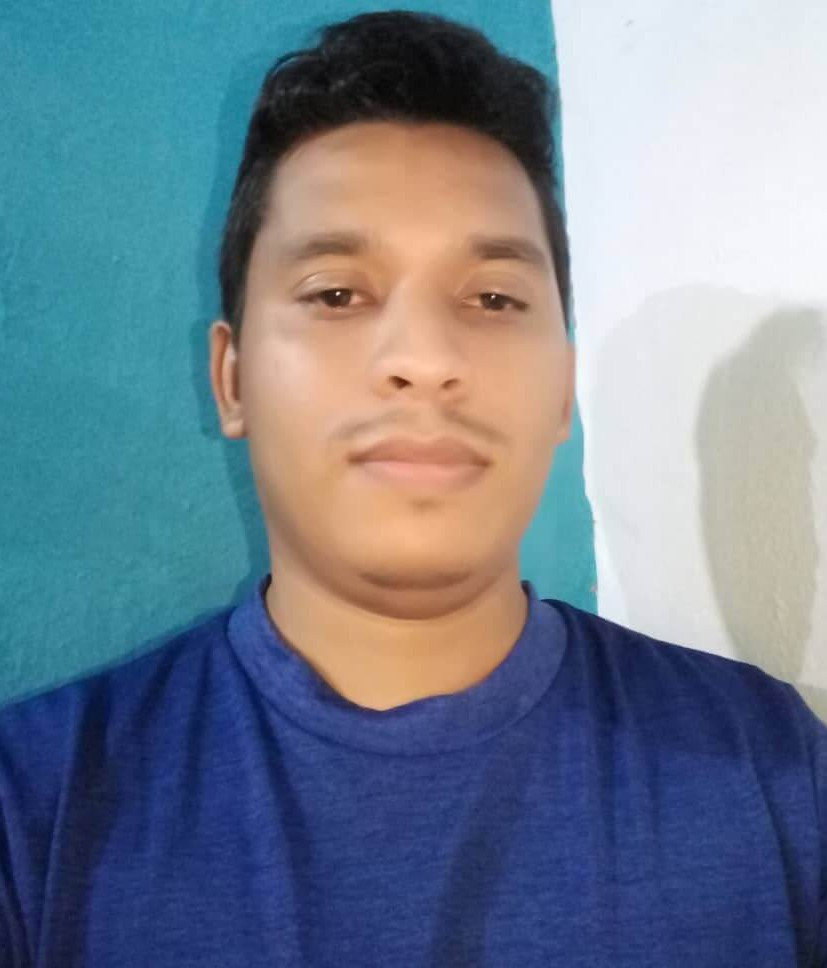
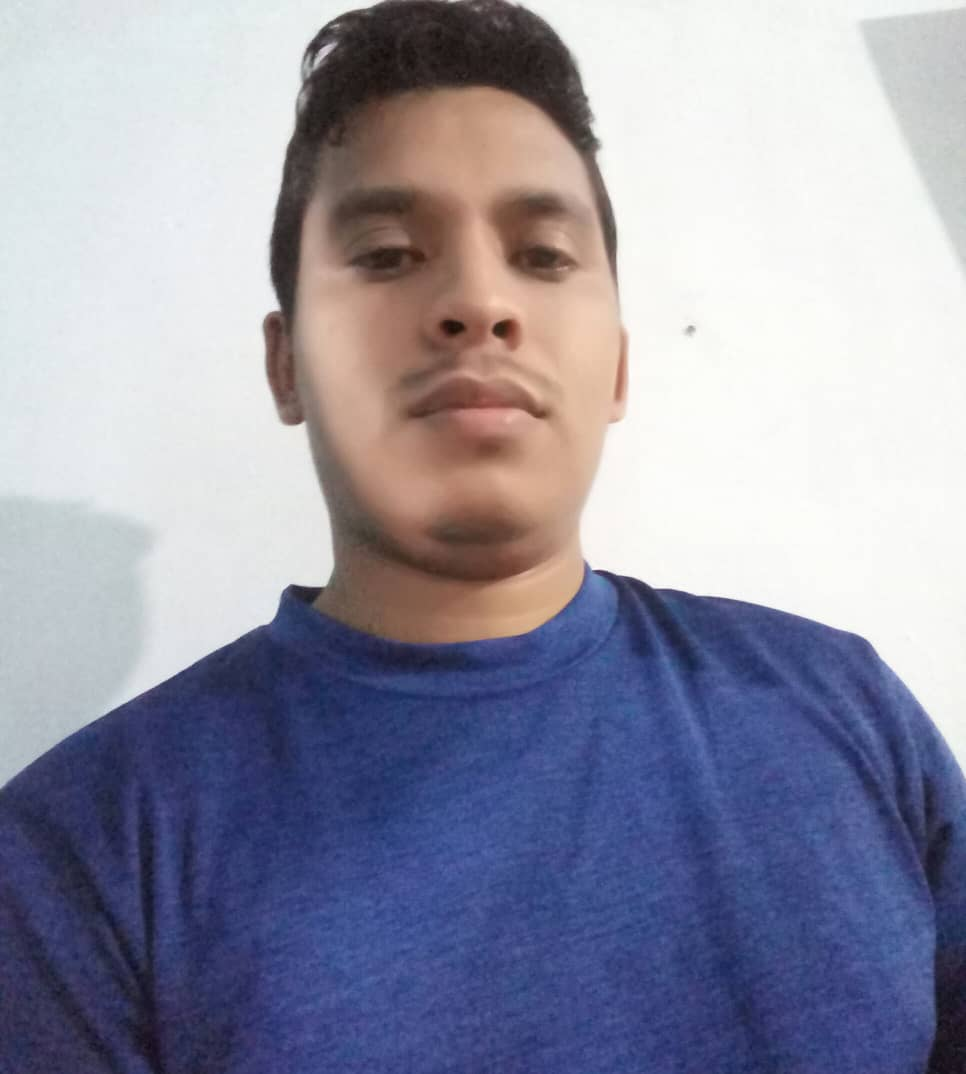
change profileImg and fix css

diff --git a/styles/main.css b/styles/main.css
@@ -396,7 +396,8 @@ margin-block-end: 30px;
     margin-block-end: 18px;
     }
     .card-info button{
-        width: 97px;
+        min-width: 97px;
+        padding: 0 5px;
         height: 32px;
         border: none;
         outline: none;

diff --git a/styles/destokp.css b/styles/destokp.css
@@ -113,7 +113,7 @@ main{
 
  }
  .card-info button{
-    width: 130px;
+    min-width: 130px;
     height: 39px;
     cursor: pointer;
  }
